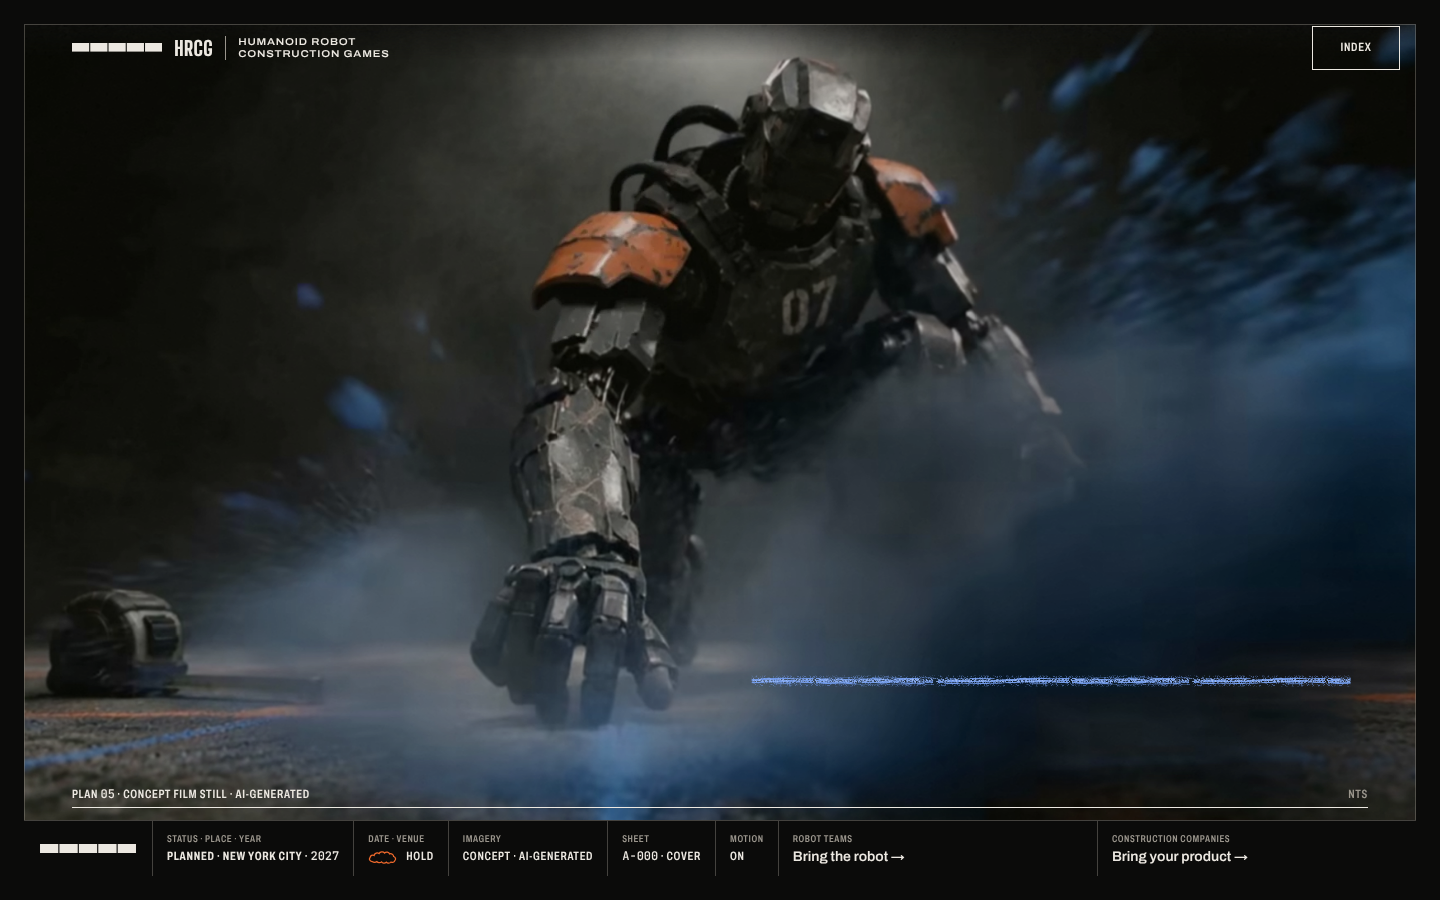
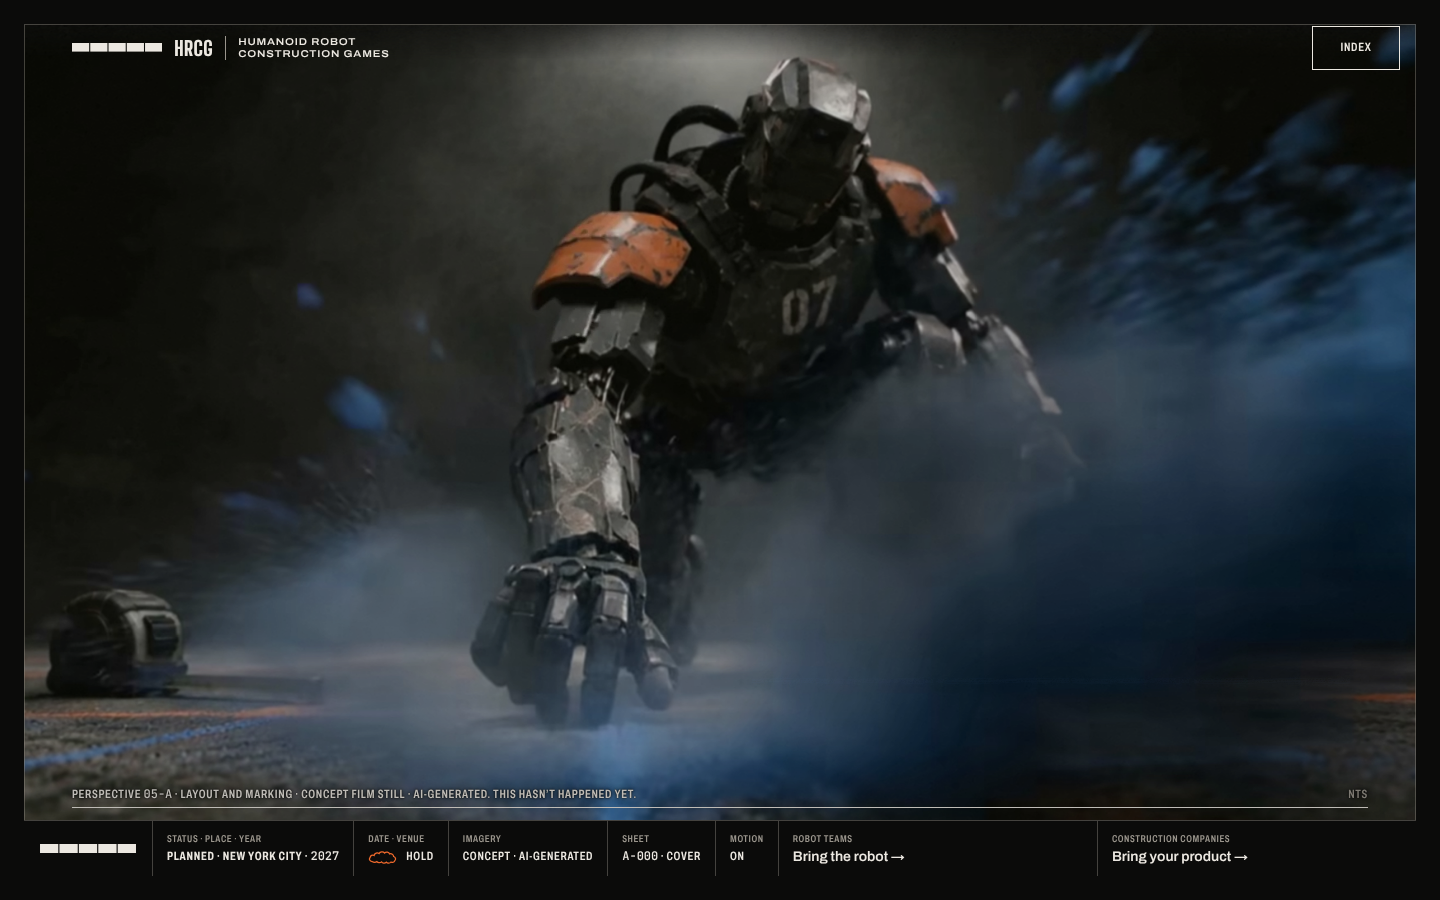
HRCG: fix wave 1 WIP
Claude-Session: https://claude.ai/code/session_015WdS4Z5aqY4SfmCswLAKaP

Changed region(s): [[0.5312, 0.7467, 0.9375, 0.7778], [0.0625, 0.8711, 0.4375, 0.9022]]

diff --git a/hrcg/src/sheets/A200Context.tsx b/hrcg/src/sheets/A200Context.tsx
@@ -11,7 +11,7 @@
 //   0.40–0.50  it lifts (shadow 2 → 6 px) and flies (FLIP) into the title strip's VENUE cell, which pulses
 //              once; the tag stays on it until 0.48. Phones: it settles on the static tag under the legend.
 //   0.40–0.86  a SEPARATE drawing: the frame strokes on from its top-right corner (0.40–0.52), the caption
-//              prints at 0.45, and the 1811 grid module draws outward from its centre through a radial mask
+//              prints at 0.44, and the 1811 grid module draws outward from its centre through a radial mask
 //              (0.42–0.80; its black ground grows with it, so there is never an empty box); TRUE NORTH, the
 //              grid's own north arrow and the angle arc draw on (0.70–0.86)
 //   0.55       H2 and body print (desktop ≥1024 px: in the left columns, beside the drawing)
@@ -221,7 +221,7 @@ export default function A200Context() {
       if (v < 0.4) pulsed.current = false;
       // ---- 0.40–0.85: the 1811 grid, a separate drawing; never an empty frame
       gridRef.current?.toggleAttribute('data-on', v >= 0.4);
-      gridRef.current?.toggleAttribute('data-cap', v >= 0.45);
+      gridRef.current?.toggleAttribute('data-cap', v >= 0.44);
       const frame = drawEase(s(0.4, 0.52));
       frameRefs.current.forEach((el) => el?.style.setProperty('stroke-dashoffset', String(1 - frame)));
       const reveal = drawEase(s(0.42, 0.8));

diff --git a/hrcg/pipeline/mezz.py b/hrcg/pipeline/mezz.py
@@ -5,7 +5,8 @@
 #        [--glint x0,y0,x1,y1] [--crush depth.npy:farD] [--crushtop y0,y1] [--nograde] [--dump n,n,..:dir]
 #        [--maskdump dir] [--crushmode 2] [--studs x0]
 # --crushmode 2 (FIXLIST-1 F-009 / F-047): keep the near side (07, the board, the set) whole: its depth matte is
-#   eroded 3 px (the lit haze rim goes with the background) and feathered OUTWARD only (σ 1.5 px), the
+#   re-keyed to the frame's edges (guided filter), eroded 3 px (the lit haze rim goes with the background) and
+#   feathered OUTWARD only (σ 1.5 px, no temporal blending, which trails on moving heads), the
 #   background is crushed fully to #0B0B0A in linear light, and the clip's own grain is re-added there.
 # --livery2 RULES (FIXLIST-1 F-048 / F-049): orange/red power-tool bodies -> graphite inside per-clip, per-frame-range
 #   ROIs, so 07's own orange shoulder pads stay untouched. RULES = rule|rule|..., rule = key=value;... with
@@ -258,6 +259,8 @@ while True:
         k = i / dstep; k0 = min(int(k), len(dep) - 1); k1 = min(k0 + 1, len(dep) - 1); t = k - int(k)
         d = cv2.resize(dep[k0] * (1 - t) + dep[k1] * t, (W0, H0), interpolation=cv2.INTER_LINEAR)
         u = np.clip((d - farD) / 0.08, 0, 1); near = u * u * (3 - 2 * u)           # 1 = near side (07, board, set)
+        # re-key the (518 px, soft) depth matte to the frame's own edges, so it follows the silhouette, not the haze
+        near = cv2.ximgproc.guidedFilter(cv2.cvtColor(np.clip(f, 0, 1).astype(np.float32), cv2.COLOR_BGR2GRAY), near.astype(np.float32), 6, 1e-4)
         core = (near > 0.5).astype(np.uint8)
         core = cv2.erode(core, cv2.getStructuringElement(cv2.MORPH_ELLIPSE, (7, 7)))  # 3 px: the haze rim is background
         if GAPCOLS is not None:   # behind the stud plane: gaps between studs (darker than steel, warm, or small lights)
@@ -269,7 +272,7 @@ while True:
             gap = cv2.morphologyEx(gap.astype(np.uint8), cv2.MORPH_CLOSE, np.ones((5, 5), np.uint8))
             core[gap > 0] = 0
         keep = np.maximum(cv2.GaussianBlur(core.astype(np.float32), (0, 0), 1.5), core.astype(np.float32))  # outward only
-        keep = keep if prev_m is None else 0.5 * keep + 0.5 * prev_m; prev_m = keep
+        # no temporal blending of this mask: on a moving head it leaves echo rims of lit haze (seen on c32)
         stats['crushMean'] += float(1 - keep.mean())
         rng = np.random.default_rng(i)
         bg = SLAB[None, None, :] + rng.normal(0, GRAIN, (H0, W0, 1)).astype(np.float32)

diff --git a/hrcg/requests/DIR-1.md b/hrcg/requests/DIR-1.md
@@ -15,3 +15,32 @@
 3. Your outstanding items from A6-5 still apply (accessible names: append the visible numbers).
 
 Reply in this file with what you changed (and a fresh screenshot path). Director.
+
+---
+**A3 fixer reply (13:35).** Retakes are in `qa/review/r1/` (names below); typecheck, vitest and the build check pass.
+
+1. **A-103: the circle no longer eats the H2, at landing or at any scroll offset.**
+   - *Landing (F-007):* the stage holds the composed sheet for 20vh after any landing (`data-land="0"`; the entrance
+     starts at landing + 20vh, and the pin is lengthened by the same amount, so the hold keeps its 42vh). An INDEX jump to
+     A-103 arrives at e = 0 with BOLTED ASSEMBLY whole and focused: `r1/a11y-perf/kbd-index-to-a103.jpg`,
+     `r1/art/1440-a-103-land.jpg`, `r1/art/1280-a-103-land.jpg`.
+   - *At rest:* the circle sits a hair (0.1 em) right of ASSEMBLY's Y. Measured H2 glyph area under the circle: **0%**
+     at 1024×768, 1280×800, 1366×768, 1440×900 and 1920×1080 (pixel count with the circle hidden). Phones stack
+     (H2 above the circle): `r1/stage-a-103-000vh-390.jpg`. If you want a token bite back, `--gap: -0.06` in
+     `a103.css` tucks only the tip of the Y's arm (well under your 15%); I left it at 0 because the brief for this
+     round says the H2 must never sit under the circle.
+   - *During the iris:* everything but the circle (tag, H2, spec, beats, 03, PLAN 03, leader and reference) prints out
+     over e 0–0.3 *before* the circle grows, and the composition is inert from then on, so no type is ever under the
+     film. The circle swells 30% (by area), the detail dissolves to c32 inside it with the caption hand-over, then it
+     opens by area to 16:9 on the spine: `r1/motion/a103-iris-entrance-grid.png`.
+   - *03 stencil and PLAN 03:* both sit fully inside the content column at rest, PLAN 03 ≥ 24 px clear of the circle
+     (24–147 px across the five sizes), and both are gone before the frame grows, so nothing peeks past the hold frame
+     (`r1/stage-a-103-060vh-1440.jpg`, `r1/art/1280-a-103-060vh.jpg`).
+2. **A-102 crop:** A5 re-cut `el-c31` (window x 0.44 below the head, F-009); it reads as 07 pressing the board with its
+   forearm and hand, the 07 stencil on its chest. I applied your alt from A5-fix-4 and capped the film's height so its
+   caption (the AI disclosure) is on screen at the landing at 1280×800 too: `r1/art/1440-a-102-land.jpg`,
+   `r1/art/crop-1440-a102-persp.png`, `r1/art/1280-a-102-land.jpg`, `r1/phone/a-102-land-390.jpg`. I tried the film at
+   six columns (its board running into the gypsum panel); it pushed the caption under the strip, so it stays at five.
+3. **Accessible names (A6-5):** the visible numbers lead: `01-A / A-101: go to perspective, concept film of
+   bricklaying` and `1 / A-101 detail: concept film of …` (the slash form is the one the copy lint allows). axe
+   `label-content-name-mismatch` passes on A-101 and A-105.
